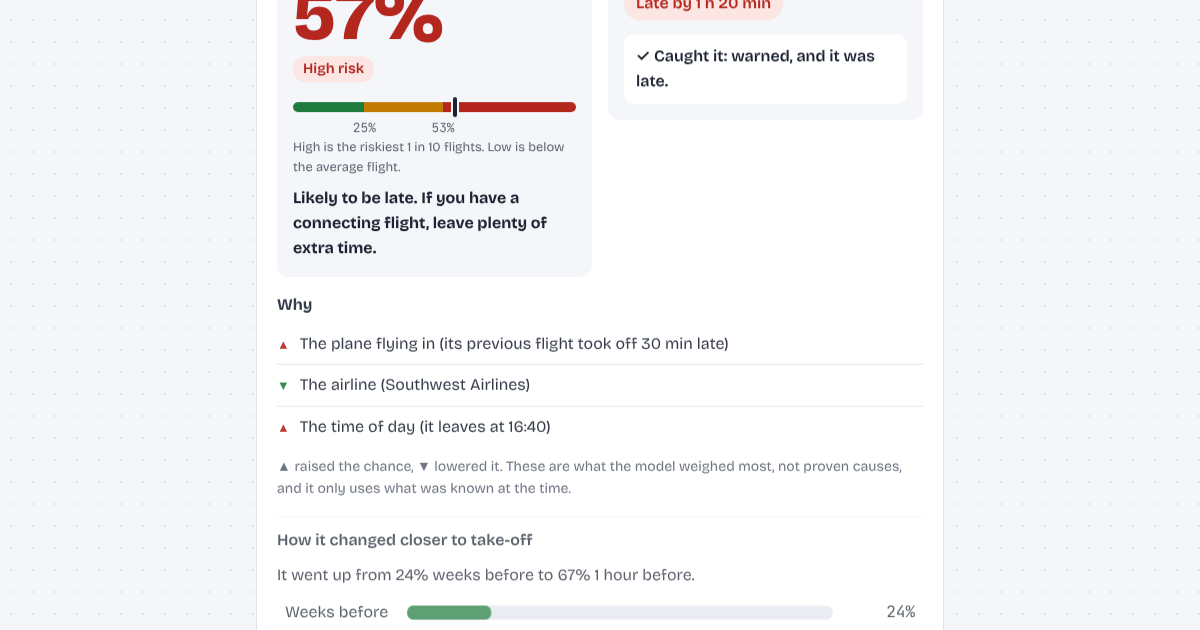
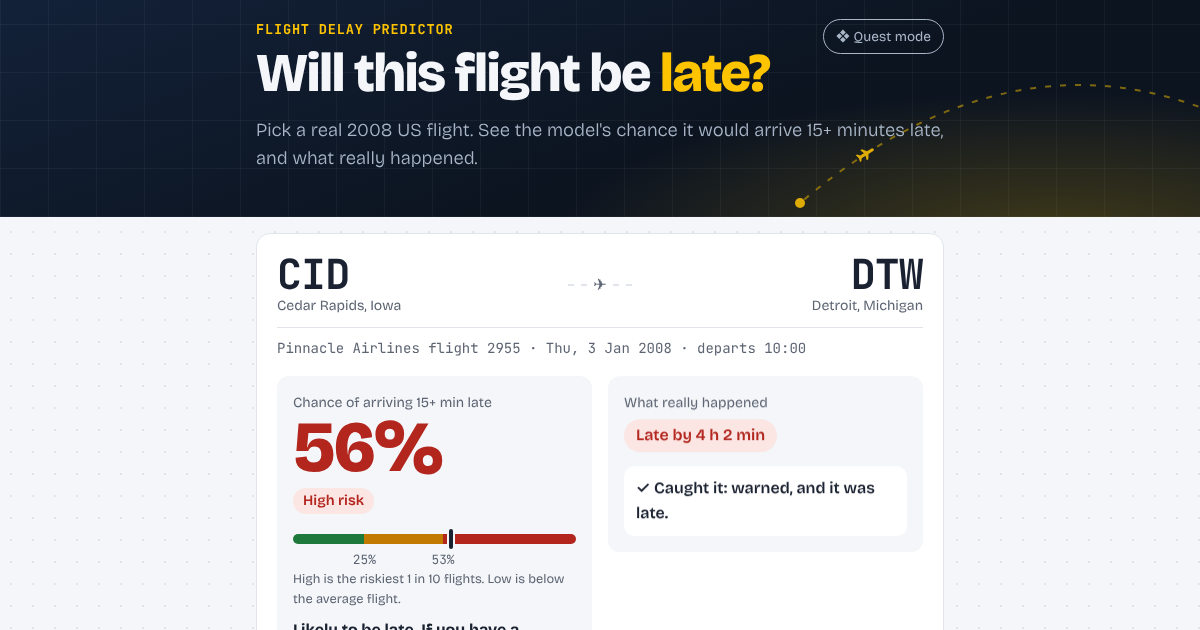
Open the demo on a clear catch and show confident mistakes
- First load opens on a fixed flight the model caught at 2 hours
  (on the warning list, late, chance 70%+; busiest route, then highest
  chance, then earliest), labelled "Example: a flight the model caught".
- "Show a mistake" now picks confident mistakes at the chosen time:
  false alarms at 70%+ that were on time, or misses at 15% or less that
  were an hour+ late, falling back to any mistake if both are empty.
- "How it changed closer to take-off" names a middle time that sits 5+
  points above or below both ends ("peaking at" / "dipping to").
No model, data file or published number changed.

Claude-Session: https://claude.ai/code/session_018r4oSc3BkHHSBWiZ7iPU8M

diff --git a/docs/index.html b/docs/index.html
@@ -155,6 +155,8 @@
   button.secondary { background: var(--card); border-color: var(--accent); color: var(--accent); font-weight: 600; }
 
   /* The answer */
+  .example-note { margin: 0 0 12px; padding: 8px 12px; border-left: 3px solid var(--signal); background: var(--bg);
+                  border-radius: 0 8px 8px 0; }
   .flight-title { display: flex; flex-wrap: wrap; justify-content: space-between; gap: 4px 16px; }
   .answer { display: grid; grid-template-columns: 1fr 1fr; gap: 16px; margin-top: 16px; align-items: start; }
   .box { border-radius: 12px; padding: 16px; background: var(--bg); }
@@ -401,7 +403,8 @@ const TIMES = [
 // The headline prediction: 2 hours before departure, the same model the README leads with
 const MAIN = "risk_2h";
 let chosenTime = MAIN;  // the prediction time the visitor picked; starts at the headline one
-let shownFlight = null;  // the flight on screen, so changing the time can redraw it
+let shownFlight = null;
+let introFlight = null;  // the flight the page opens on, labelled as an example  // the flight on screen, so changing the time can redraw it
 
 const airport = document.getElementById("airport");
 const destination = document.getElementById("destination");
@@ -643,13 +646,27 @@ const TIPS = {
   low: "Likely on time.",
 };
 
+// A middle time that sits 5+ points above or below both ends, e.g. ", peaking at 58% 4 hours before".
+// Without it, "went up from 44% to 52%" would hide a 58% in between
+function turningPoint(f, times) {
+  const ends = [f[times[0][0]], f[times[times.length - 1][0]]].map(per100);
+  let best = null;
+  times.slice(1, -1).forEach(([field, label]) => {
+    const value = per100(f[field]);
+    const gap = Math.max(value - Math.max(...ends), Math.min(...ends) - value);
+    if (gap >= 5 && (!best || gap > best.gap)) best = { gap, value, field, label, peak: value > Math.max(...ends) };
+  });
+  if (!best) return "";
+  return `, ${best.peak ? "peaking at" : "dipping to"} ${chance(f[best.field])} ${best.label.toLowerCase()}`;
+}
+
 // One bar per prediction time, skipping any the data file doesn't have; bars take the risk colour
 function barsOverTime(f) {
   const times = TIMES.filter(([field]) => f[field] !== null && f[field] !== undefined);
   const first = f[times[0][0]], last = f[times[times.length - 1][0]];
   const change = Math.round((last - first) * 100);
   const trend = Math.abs(change) < 3 ? `It stayed about the same, at around ${chance(last)}.`
-    : `It went ${change > 0 ? "up" : "down"} from ${chance(first)} ${times[0][1].toLowerCase()} to ${chance(last)} ${times[times.length - 1][1].toLowerCase()}.`;
+    : `It went ${change > 0 ? "up" : "down"} from ${chance(first)} ${times[0][1].toLowerCase()} to ${chance(last)} ${times[times.length - 1][1].toLowerCase()}${turningPoint(f, times)}.`;
   const rows = times.map(([field, label]) => `
     <div class="time-row${field === chosenTime ? " chosen" : ""}"><span>${label.replace(" hours", " h").replace(" hour", " h")}</span>
       <div class="time-track"><div class="time-fill ${riskLevel(f, field)}" style="width:${percent(f[field])}"></div></div>
@@ -664,7 +681,10 @@ function showFlight(f) {
     ? `<span class="verdict late">Late by ${duration(f.arrival_delay)}</span>`
     : `<span class="verdict ok">On time</span>`;
   result.hidden = false;
-  result.innerHTML = `
+  // Say plainly that the opening flight was chosen, so it isn't mistaken for a typical result
+  const example = f === introFlight && chosenTime === MAIN
+    ? `<p class="small example-note">Example: a flight the model caught. Press <strong>Show a mistake</strong> to see where it goes wrong.</p>` : "";
+  result.innerHTML = `${example}
     <h2 class="visually-hidden">${place(f.origin)} to ${place(f.dest)}</h2>
     <div class="route">
       <div><div class="code">${f.origin}</div><div class="city">${place(f.origin)}</div></div>
@@ -732,6 +752,19 @@ function jumpTo(f) {
   showFlight(f);
 }
 
+// The flight the page opens on: a clear catch at 2 hours, so a first visit shows what the model is for.
+// Picked by a fixed rule, never at random, so every visitor sees the same one: on the warning list,
+// really late, chance 70%+; then the busiest route (most flights to choose from), the highest chance,
+// and the earliest departure
+function pickIntroFlight() {
+  const routeSize = countBy(flights.map(f => ({ route: f.origin + f.dest })), "route");
+  const caught = flights.filter(f => onWarningList(f, MAIN) && f.late && f[MAIN] >= 0.7);
+  caught.sort((a, b) => routeSize[b.origin + b.dest] - routeSize[a.origin + a.dest]
+    || b[MAIN] - a[MAIN]
+    || (a.date + clock(a.scheduled_departure)).localeCompare(b.date + clock(b.scheduled_departure)));
+  return caught[0];
+}
+
 // Jump to a random flight from the warning list for the prediction time the visitor picked
 function showRiskyFlight() {
   const risky = riskiestTenPercent(chosenTime);
@@ -739,11 +772,18 @@ function showRiskyFlight() {
   jumpTo(f);
 }
 
-// Jump to a random flight the model got wrong at the chosen time: a false alarm or a miss
+// Jump to a random confident mistake at the chosen time. Picking any wrong flight mostly found
+// near-misses (a 23% flight 16 minutes late), which teach nothing; a confident mistake shows what
+// the model can't see. False alarms: warned at 70%+ but on time. Misses: 15% or less but an hour+ late
 function showMistake() {
-  const wrong = flights.filter(f => onWarningList(f, chosenTime) !== Boolean(f.late));
-  const f = wrong[Math.floor(Math.random() * wrong.length)];
-  jumpTo(f);
+  const falseAlarms = flights.filter(f => onWarningList(f, chosenTime) && f[chosenTime] >= 0.7 && !f.late);
+  const misses = flights.filter(f => f[chosenTime] <= 0.15 && f.late && f.arrival_delay >= 60);
+  // Weeks before, no flight reaches 70%, so only misses exist; if both are empty, any mistake will do
+  let pool = [falseAlarms, misses].filter(group => group.length > 0);
+  if (pool.length === 0) pool = [flights.filter(f => onWarningList(f, chosenTime) !== Boolean(f.late))];
+  // Pick a group first, then a flight, so both kinds of mistake turn up about equally often
+  const group = pool[Math.floor(Math.random() * pool.length)];
+  jumpTo(group[Math.floor(Math.random() * group.length)]);
 }
 
 // 0.735 -> "74", for "about 74 in every 100" sentences
@@ -819,6 +859,8 @@ fetch("flights.json")
     
     fillStats();
     fillSampleNote();
+    introFlight = pickIntroFlight();
+    jumpTo(introFlight);
     airport.addEventListener("change", () => { fillDestinations(); fillFlights(); });
     destination.addEventListener("change", fillFlights);
     document.getElementById("check").addEventListener("click", showChosenFlight);
